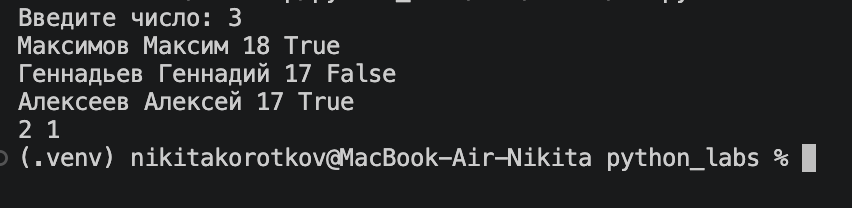
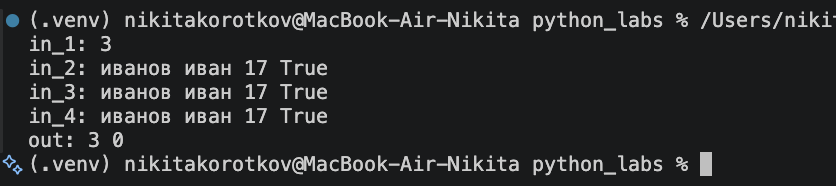
small changes 5,6

diff --git a/src/lab01/06.py b/src/lab01/06.py
@@ -1,12 +1,10 @@
-n = int(input('Введите число: '))
-cnt = 0
+n = int(input('in_1: '))
 ochno = 0
 zaochno = 0
-while cnt < n:
-    s = list(input().split())
-    cnt+=1
+for i in range(n):
+    s = input(f'in_{i + 2}: ').split()
     if s[3] == 'True':
-        ochno+=1
+        ochno += 1
     else:
-        zaochno+=1
-print(ochno, zaochno)
+        zaochno += 1
+print(f'out: {ochno} {zaochno}')

diff --git a/src/lab01/05_initials_and_len.py b/src/lab01/05_initials_and_len.py
@@ -1,3 +1,3 @@
 fio = input('Введите ФИО: ')
-print(f'Инициалы: {fio.split()[0][0]}{fio.split()[1][0]}{fio.split()[2][0]}.')
+print(f'Инициалы: {fio.split()[0][0].upper()}{fio.split()[1][0].upper()}{fio.split()[2][0].upper()}.')
 print(f'Длина (символов): {len(' '.join(fio.split()))}')
